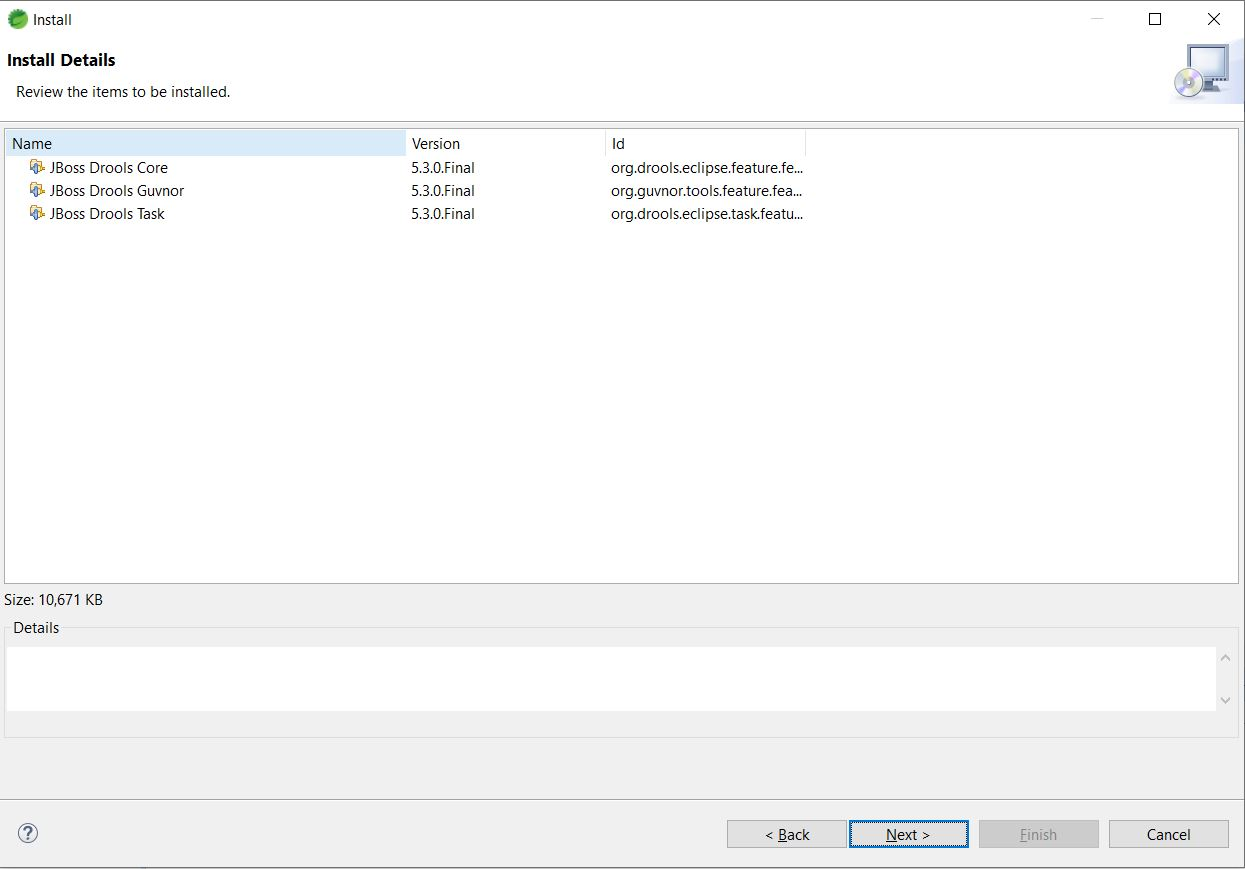
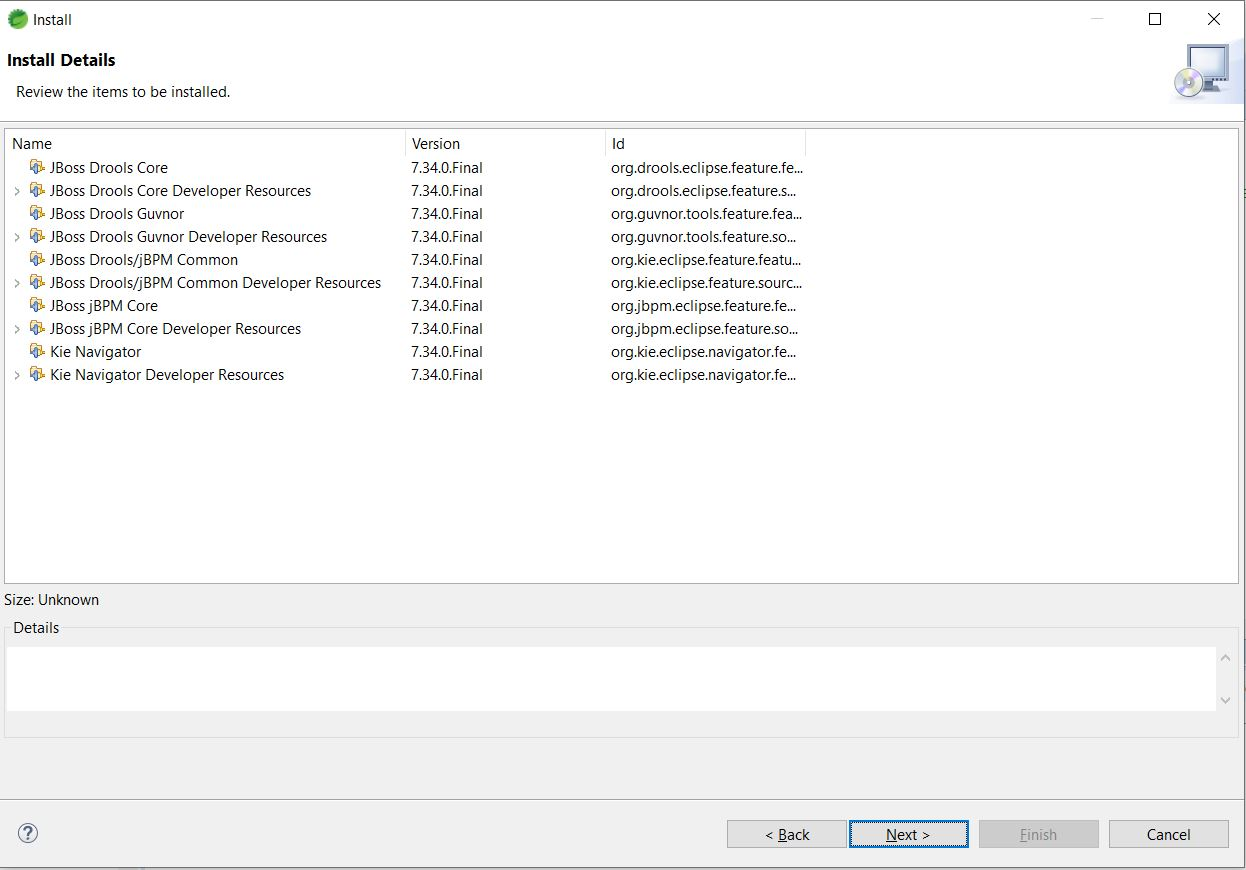
others

diff --git a/drools/installation/README.md b/drools/installation/README.md
@@ -1,6 +1,6 @@
 ## Drools Plugin Installation in Eclipse
-* Download drools binaries from [https://download.jboss.org/drools/release/5.3.0.Final/](https://download.jboss.org/drools/release/5.3.0.Final/)
-	* Download `droolsjbpm-tools-distribution-5.3.0.Final.zip` file
+* Download drools binaries from https://download.jboss.org/drools/release/7.34.0.Final/org.drools.updatesite/
+	* Download `droolsjbpm-tools-distribution-7.34.0.Final.zip` file
 * Extract zip
 * Install in Eclipse
 	* Open Eclipse - Help - Install New Software...
@@ -21,7 +21,7 @@
 ![picture](6.jpg)
 	* Click `Add` button
 ![picture](7.jpg)
-	* Click `Create a new Drools 5 Runtime` and select until `droolsjbpm-tools-distribution-5.3.0.Final\binaries`. Click `Ok` button
+	* Click `Browse` and select until `droolsjbpm-tools-distribution-7.34.0.Final\binaries`. Click `Ok` button
 ![picture](8.jpg)
-	* Select `Drools 5.3.0 Final runtime`
+	* Select `Drools 7.34.0.202003021112`
 ![picture](9.jpg)	

diff --git a/drools/notes.md b/drools/notes.md
@@ -94,3 +94,9 @@ student.setName("jim jack");
 	* studentMap = ["1": "jim", "2": "jack"]
 	* studentMap["1"] returns jim
 	* studentMap.1 returns jim
+	
+## Stateless Sessions
+* Usecases
+	* Validations
+	* Calculation
+	* Routing and Filtering
